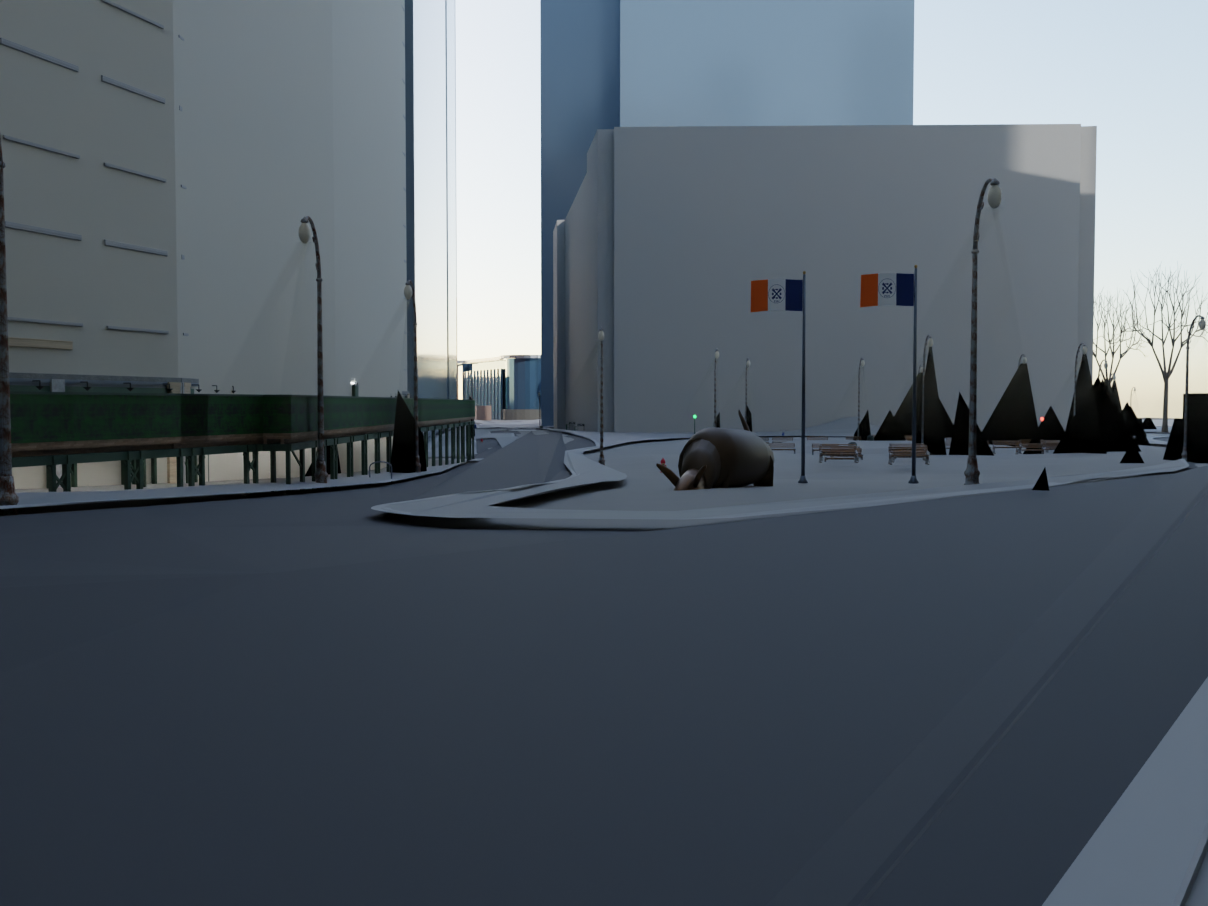
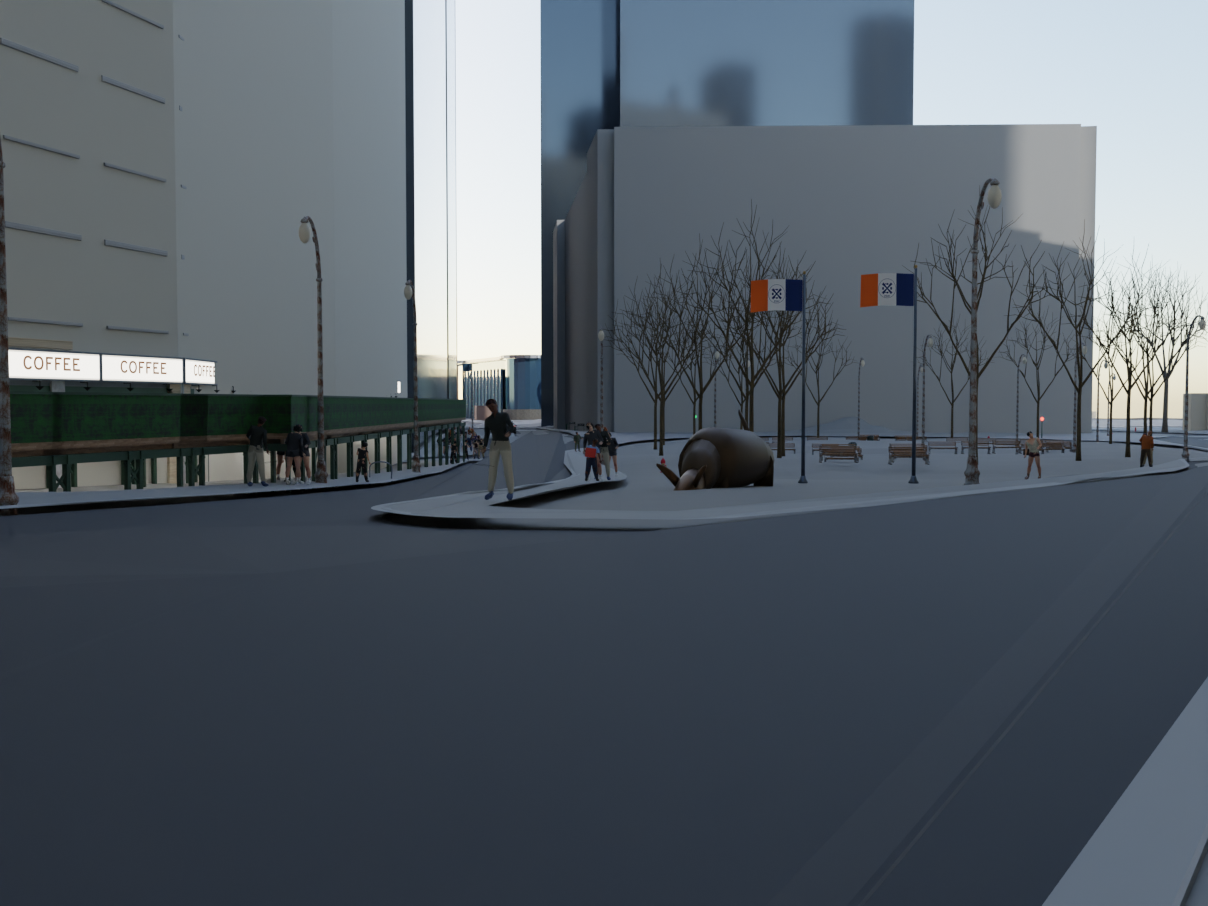
verify: Charging Bull - a blocked-out mass, and the distinction that matters
Bowling Green is well built: the plaza kerb and raised bed, bare winter trees,
benches, lamps, flagpoles carrying the orange-white-blue City flag, COFFEE
fascias opposite from the signage stage, a sidewalk shed along the left, 322
people, 88 vehicles, 10 landmark models.  Mean luminance 0.357 against the
photograph's 0.394, one of the closest matches in the set.

The Bull is a bronze lump - right size, right place, right patina, and nothing
about it is a bull.  That is I1 and it is deliberate: inventing figure geometry
would be worse than an honest gap, so sculpture is blocked out and flagged.

The assessment separates this from the sheets that cannot show their subject for
the other reason.  40 Wall Street fails because three sensible camera rules
compose badly and the fix is known (I18).  This one fails because the subject
was never modelled, on purpose, and the sheet is doing its job by making that
visible.  A reader who cannot tell those apart has been misled by the format
rather than by either fault.

Claude-Session: https://claude.ai/code/session_012rCzdfEp56Z5bDvSJLVsiQ

Changed region(s): [[0.1838, 0.0, 0.7657, 0.5563], [0.7045, 0.1854, 1.0, 0.5563], [0.0, 0.3709, 0.1838, 0.4327]]

diff --git a/docs/verification/comparison/landmark_charging_bull/assessment.md b/docs/verification/comparison/landmark_charging_bull/assessment.md
@@ -12,6 +12,28 @@
 
 **Verdict — the bull is modelled and the camera is aimed at it — the subject-bearing rule overrode a recorded azimuth 38 deg out — but the sculpture reads as a small dark lump on an empty plaza, and the near half of the frame is bare ground**
 
+## Re-rendered 2026-09-07 — the subject is a blocked-out mass, and that is the honest choice
+
+Bowling Green is well built: the plaza's kerb line and its raised planting bed, bare winter trees on
+the island, benches, lamp standards, the flagpoles carrying the orange-white-blue of the City flag,
+`COFFEE` fascias on the shopfronts opposite from the signage stage, a sidewalk shed with green netting
+along the left frontage, 322 people and 88 vehicles, 10 landmark models.
+
+**The Charging Bull itself is a bronze lump.** At 33.8 m it reads as a mass of about the right size,
+in the right place, with the right patina, and nothing about it is a bull — no head, no horns, no
+legs, no modelling. That is deviation I1, and it is a deliberate choice rather than a failure: the
+project's rule is that inventing figure geometry would be worse than an honest gap, so sculpture is
+blocked out and flagged.
+
+It is worth separating this from the other sheets that cannot show their subject. `landmark_40_wall_street`
+fails because three sensible camera rules compose badly (I18) and the fix is known. This one fails
+because the subject was never modelled, on purpose, and the sheet is doing its job by making that
+visible. A reader who cannot tell those two apart has been misled by the format rather than by
+either fault.
+
+Mean luminance **0.357 against the photograph's 0.394** — one of the closest matches in the set, and
+the Sun is from EXIF.
+
 ## What matches
 
 * Charging Bull exists as a landmark model and is in the frame at 34 m, at the right size (3 m high) and on the right traffic island at the north tip of Bowling Green.
